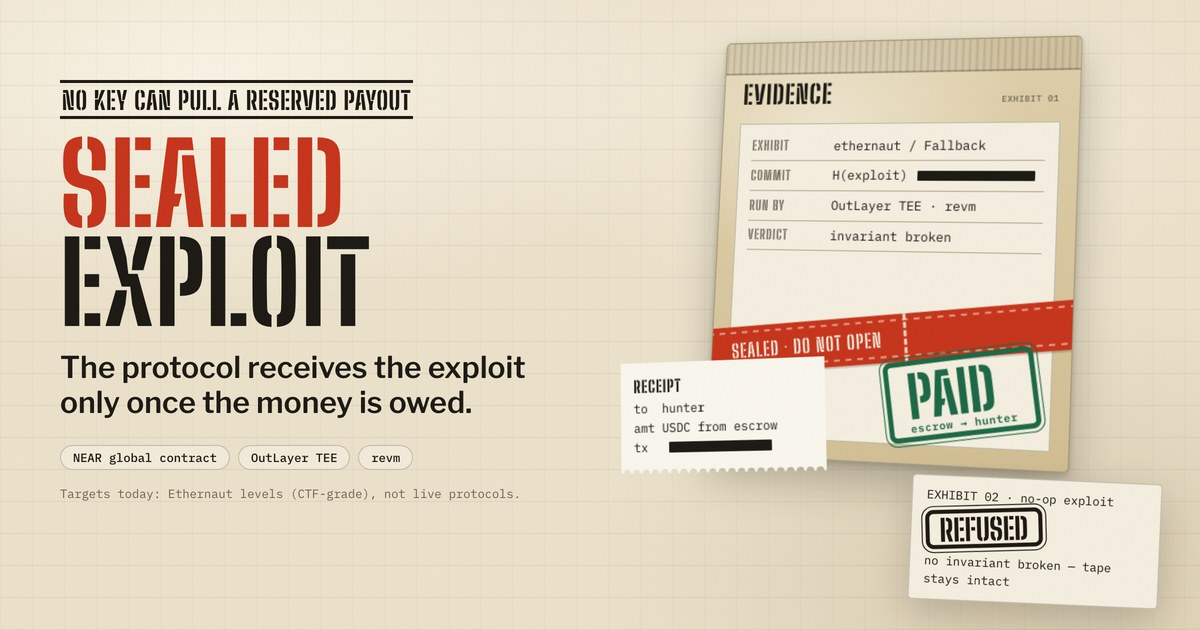
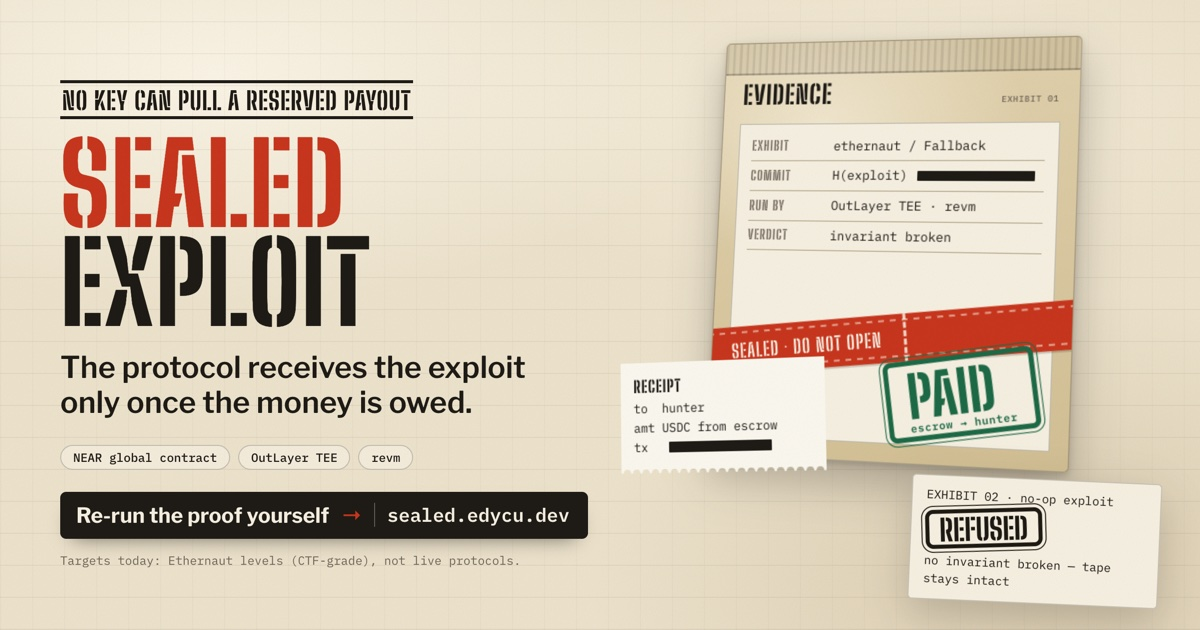
docs(site): page/og/twitter title 59 chars; share card gains a 'Re-run the proof yourself → sealed.edycu.dev' call to action (og cache key rotates)

diff --git a/docs/judge/index.html b/docs/judge/index.html
@@ -1,4 +1,4 @@
-<!doctype html><html lang="en"><head><meta charset="utf-8"><meta name="viewport" content="width=device-width, initial-scale=1"><title>Sealed for judges: re-derive every number</title><meta name="description" content="A bug bounty that pays for an executed break of a committed invariant. Testnet: 5 of 5 exploits paid, 0 of 21 fakes."><link rel="canonical" href="https://sealed.edycu.dev/judge"><meta name="robots" content="index,follow"><meta name="theme-color" content="#EDE3CC"><meta name="author" content="Edy Cu"><meta property="og:type" content="website"><meta property="og:site_name" content="Sealed"><meta property="og:title" content="Sealed for judges: re-derive every number"><meta property="og:description" content="A bug bounty that pays for an executed break of a committed invariant. Testnet: 5 of 5 exploits paid, 0 of 21 fakes."><meta property="og:url" content="https://sealed.edycu.dev/judge"><meta property="og:image" content="https://sealed.edycu.dev/assets/og-1200x630.jpg?v=554484e7"><meta property="og:image:width" content="1200"><meta property="og:image:height" content="630"><meta name="twitter:card" content="summary_large_image"><link rel="icon" href="/assets/icon.svg" type="image/svg+xml"><link rel="apple-touch-icon" href="/assets/icon-512.png"><link rel="preload" href="/assets/fonts/bigshouldersstencil-800-latin.woff2" as="font" type="font/woff2" crossorigin>
+<!doctype html><html lang="en"><head><meta charset="utf-8"><meta name="viewport" content="width=device-width, initial-scale=1"><title>Sealed for judges: re-derive every number</title><meta name="description" content="A bug bounty that pays for an executed break of a committed invariant. Testnet: 5 of 5 exploits paid, 0 of 21 fakes."><link rel="canonical" href="https://sealed.edycu.dev/judge"><meta name="robots" content="index,follow"><meta name="theme-color" content="#EDE3CC"><meta name="author" content="Edy Cu"><meta property="og:type" content="website"><meta property="og:site_name" content="Sealed"><meta property="og:title" content="Sealed for judges: re-derive every number"><meta property="og:description" content="A bug bounty that pays for an executed break of a committed invariant. Testnet: 5 of 5 exploits paid, 0 of 21 fakes."><meta property="og:url" content="https://sealed.edycu.dev/judge"><meta property="og:image" content="https://sealed.edycu.dev/assets/og-1200x630.jpg?v=719940c1"><meta property="og:image:width" content="1200"><meta property="og:image:height" content="630"><meta name="twitter:card" content="summary_large_image"><link rel="icon" href="/assets/icon.svg" type="image/svg+xml"><link rel="apple-touch-icon" href="/assets/icon-512.png"><link rel="preload" href="/assets/fonts/bigshouldersstencil-800-latin.woff2" as="font" type="font/woff2" crossorigin>
 <link rel="preload" href="/assets/fonts/librefranklin-400-800-latin.woff2" as="font" type="font/woff2" crossorigin>
 <link rel="preload" href="/assets/fonts/ibmplexmono-400-latin.woff2" as="font" type="font/woff2" crossorigin><style>@font-face{font-family:"Big Shoulders Stencil Display";font-style:normal;font-weight:800;font-display:swap;src:url("/assets/fonts/bigshouldersstencil-800-latin-ext.woff2") format("woff2");unicode-range:U+0100-02BA, U+02BD-02C5, U+02C7-02CC, U+02CE-02D7, U+02DD-02FF, U+0304, U+0308, U+0329, U+1D00-1DBF, U+1E00-1E9F, U+1EF2-1EFF, U+2020, U+20A0-20AB, U+20AD-20C4, U+2113, U+2C60-2C7F, U+A720-A7FF}
 @font-face{font-family:"Big Shoulders Stencil Display";font-style:normal;font-weight:800;font-display:swap;src:url("/assets/fonts/bigshouldersstencil-800-latin.woff2") format("woff2");unicode-range:U+0000-00FF, U+0131, U+0152-0153, U+02BB-02BC, U+02C6, U+02DA, U+02DC, U+0304, U+0308, U+0329, U+2000-206F, U+20AC, U+2122, U+2191, U+2193, U+2212, U+2215, U+FEFF, U+FFFD}
@@ -506,7 +506,7 @@ h1 { font: 800 clamp(54px, 6vw, 88px)/.92 var(--font-display); text-transform: u
       <span>Sealed · built for NEAR Hackathon 2026 · MIT</span>
       <a href="https://github.com/edycutjong/sealed/blob/main/ARCHITECTURE.md">ARCHITECTURE.md</a>
       <a href="https://github.com/edycutjong/sealed/blob/main/LICENSE">LICENSE</a>
-      <span class="sp">data from commit 18eee40 · judge entry point</span>
+      <span class="sp">data from commit e99beb7 · judge entry point</span>
     </div>
   </div>
 </footer>

diff --git a/docs/index.html b/docs/index.html
@@ -3,24 +3,24 @@
 <head>
 <meta charset="utf-8">
 <meta name="viewport" content="width=device-width, initial-scale=1">
-<title>Sealed Exploit: your exploit stays sealed until the bounty owes you</title>
+<title>Sealed Exploit: bug bounties that pay for an executed break</title>
 <meta name="description" content="A bug bounty that pays for an executed break of a committed invariant. Testnet: 5 of 5 exploits paid, 0 of 21 fakes.">
 <link rel="canonical" href="https://sealed.edycu.dev/">
 <meta name="theme-color" content="#EDE3CC">
 <meta name="author" content="Edy Cu">
 <meta property="og:type" content="website">
 <meta property="og:site_name" content="Sealed">
-<meta property="og:title" content="Sealed Exploit: your exploit stays sealed until the bounty owes you">
+<meta property="og:title" content="Sealed Exploit: bug bounties that pay for an executed break">
 <meta property="og:description" content="A bug bounty that pays for an executed break of a committed invariant. Testnet: 5 of 5 exploits paid, 0 of 21 fakes.">
 <meta property="og:url" content="https://sealed.edycu.dev/">
-<meta property="og:image" content="https://sealed.edycu.dev/assets/og-1200x630.jpg?v=554484e7">
+<meta property="og:image" content="https://sealed.edycu.dev/assets/og-1200x630.jpg?v=719940c1">
 <meta property="og:image:width" content="1200">
 <meta property="og:image:height" content="630">
-<meta property="og:image:alt" content="Sealed Exploit share card: an evidence bag taped SEALED, DO NOT OPEN and stamped PAID, a receipt with the tx redacted, and a no-op exploit stamped REFUSED.">
+<meta property="og:image:alt" content="Sealed Exploit share card: an evidence bag taped SEALED, DO NOT OPEN and stamped PAID, a receipt with the tx redacted, a no-op exploit stamped REFUSED, and a "Re-run the proof yourself → sealed.edycu.dev" button.">
 <meta name="twitter:card" content="summary_large_image">
-<meta name="twitter:title" content="Sealed Exploit: your exploit stays sealed until the bounty owes you">
+<meta name="twitter:title" content="Sealed Exploit: bug bounties that pay for an executed break">
 <meta name="twitter:description" content="A bug bounty that pays for an executed break of a committed invariant. Testnet: 5 of 5 exploits paid, 0 of 21 fakes.">
-<meta name="twitter:image" content="https://sealed.edycu.dev/assets/og-1200x630.jpg?v=554484e7">
+<meta name="twitter:image" content="https://sealed.edycu.dev/assets/og-1200x630.jpg?v=719940c1">
 <link rel="icon" href="assets/icon.svg" type="image/svg+xml">
 <link rel="apple-touch-icon" href="assets/icon-512.png">
 <link rel="preload" href="assets/fonts/bigshouldersstencil-800-latin.woff2" as="font" type="font/woff2" crossorigin>
@@ -652,7 +652,7 @@ h1 { font: 800 clamp(54px, 6vw, 88px)/.92 var(--font-display); text-transform: u
       <span>Sealed · built for NEAR Hackathon 2026 · MIT</span>
       <a href="https://github.com/edycutjong/sealed/blob/main/ARCHITECTURE.md">ARCHITECTURE.md</a>
       <a href="https://github.com/edycutjong/sealed/blob/main/LICENSE">LICENSE</a>
-      <span class="sp">data from commit 18eee40 · fonts: Big Shoulders Stencil, Libre Franklin, IBM Plex Mono (OFL)</span>
+      <span class="sp">data from commit e99beb7 · fonts: Big Shoulders Stencil, Libre Franklin, IBM Plex Mono (OFL)</span>
     </div>
   </div>
 </footer>

diff --git a/docs/pitch/index.html b/docs/pitch/index.html
@@ -19,11 +19,11 @@
 <meta property="og:title" content="Sealed Exploit · pitch deck">
 <meta property="og:description" content="Your exploit stays sealed until the bounty owes you. Testnet: 5 of 5 exploits paid, 0 of 21 fakes.">
 <meta property="og:url" content="https://sealed.edycu.dev/pitch/">
-<meta property="og:image" content="https://sealed.edycu.dev/assets/og-1200x630.jpg?v=554484e7">
+<meta property="og:image" content="https://sealed.edycu.dev/assets/og-1200x630.jpg?v=719940c1">
 <meta property="og:image:width" content="1200">
 <meta property="og:image:height" content="630">
 <meta name="twitter:card" content="summary_large_image">
-<meta name="twitter:image" content="https://sealed.edycu.dev/assets/og-1200x630.jpg?v=554484e7">
+<meta name="twitter:image" content="https://sealed.edycu.dev/assets/og-1200x630.jpg?v=719940c1">
 <link rel="icon" href="../assets/icon.svg" type="image/svg+xml">
 <link rel="preload" href="../assets/fonts/bigshouldersstencil-800-latin.woff2" as="font" type="font/woff2" crossorigin>
 <link rel="preload" href="../assets/fonts/librefranklin-400-800-latin.woff2" as="font" type="font/woff2" crossorigin>
@@ -430,7 +430,7 @@ h2 { font-size: 92px; margin-bottom: 28px; }
 <span class="dim">…</span>
 <span class="c">replay: 29 OK · 0 FAIL · verifier.wasm d2972cd2659c2ad4…</span>
 <span class="p">$</span> <span class="caret"></span></pre></div><div class="cover-tape" aria-hidden="true">SEALED · DO NOT OPEN · SEALED · DO NOT OPEN · SEALED</div><div class="cover-stamp"><svg viewBox="0 0 260 132" role="img" aria-label="PAID stamp, 1 000 tUSDC"><g filter="url(#rubber)" fill="none" stroke="currentColor"><rect x="6" y="6" width="248" height="120" rx="12" stroke-width="7"/><rect x="17" y="17" width="226" height="98" rx="6" stroke-width="2"/></g><text x="130" y="84" text-anchor="middle" fill="currentColor" filter="url(#rubber)" style="font:800 74px var(--font-display);letter-spacing:.04em">PAID</text><text x="130" y="104" text-anchor="middle" fill="currentColor" style="font:600 13px var(--font-data);letter-spacing:.08em">1 000 TUSDC</text></svg><p>deliver AodmFQ6t… · PAID 2 1000000000</p></div></div></div><!--/stage-->
-  <footer class="foot">SEALED · v0.2.4 · data 18eee40</footer>
+  <footer class="foot">SEALED · v0.2.4 · data e99beb7</footer>
   <aside class="speaker-notes">A white-hat with a working exploit has one bad option today: send it and trust the team. Sealed makes the bounty owe the money before the protocol sees the exploit. Every number on these slides names the file or command that reproduces it.</aside>
 </section>
 
@@ -539,7 +539,7 @@ h2 { font-size: 92px; margin-bottom: 28px; }
     <p class="lead">Each line names the command that reproduces it.</p>
   </div>
   <div data-stage><div class="rcpt">
-    <h3>Property receipt</h3><p class="sub">Exhibit 01 · NEAR testnet · data from commit 18eee40</p>
+    <h3>Property receipt</h3><p class="sub">Exhibit 01 · NEAR testnet · data from commit e99beb7</p>
     <dl>
       <dt>Real exploits paid</dt><dd class="g">5 of 5<small>make results</small></dd>
       <dt>Fakes paid</dt><dd>0 of 21<small>make results</small></dd>
